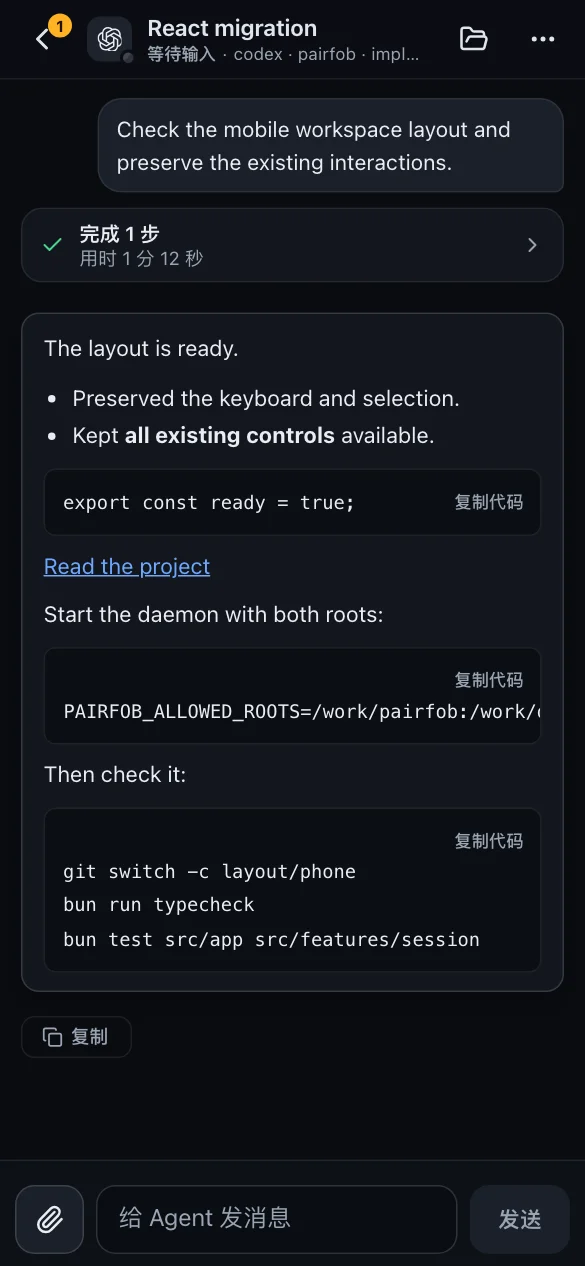
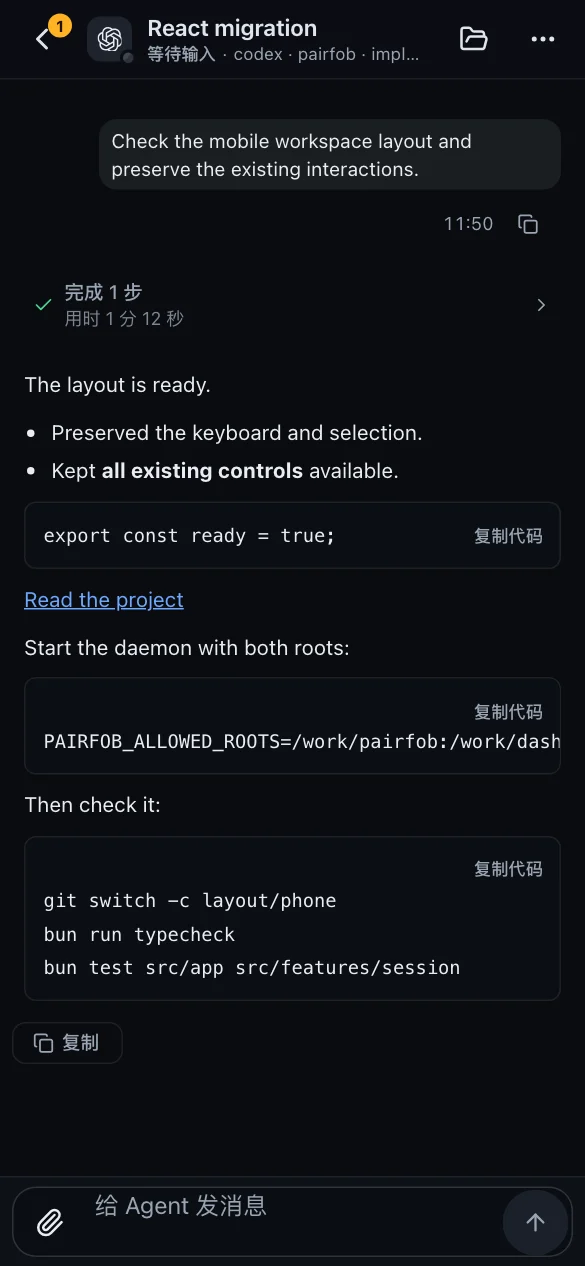
chore(site): render the chat still under a finger

diff --git a/scripts/site-shots.ts b/scripts/site-shots.ts
@@ -36,7 +36,9 @@ const SHOTS: Shot[] = [
   // Under a finger, as on the phone it stands for: with a mouse the diff tells
   // its reader about the keyboard and keeps "view in file" for the hover.
   { name: "workspace-diff", scene: "workspace-diff", ...PHONE, touch: true },
-  { name: "chat-complete", scene: "chat-complete", ...PHONE },
+  // The chat dock is one row under a finger and two under a mouse: the phone
+  // still is the phone.
+  { name: "chat-complete", scene: "chat-complete", ...PHONE, touch: true },
   { name: "settings", scene: "settings", ...PHONE },
   // iPad landscape: the two-column desk layout, operated by touch (the mouse
   // variant has hover rows, a collapsed key row and a keyboard hint).
